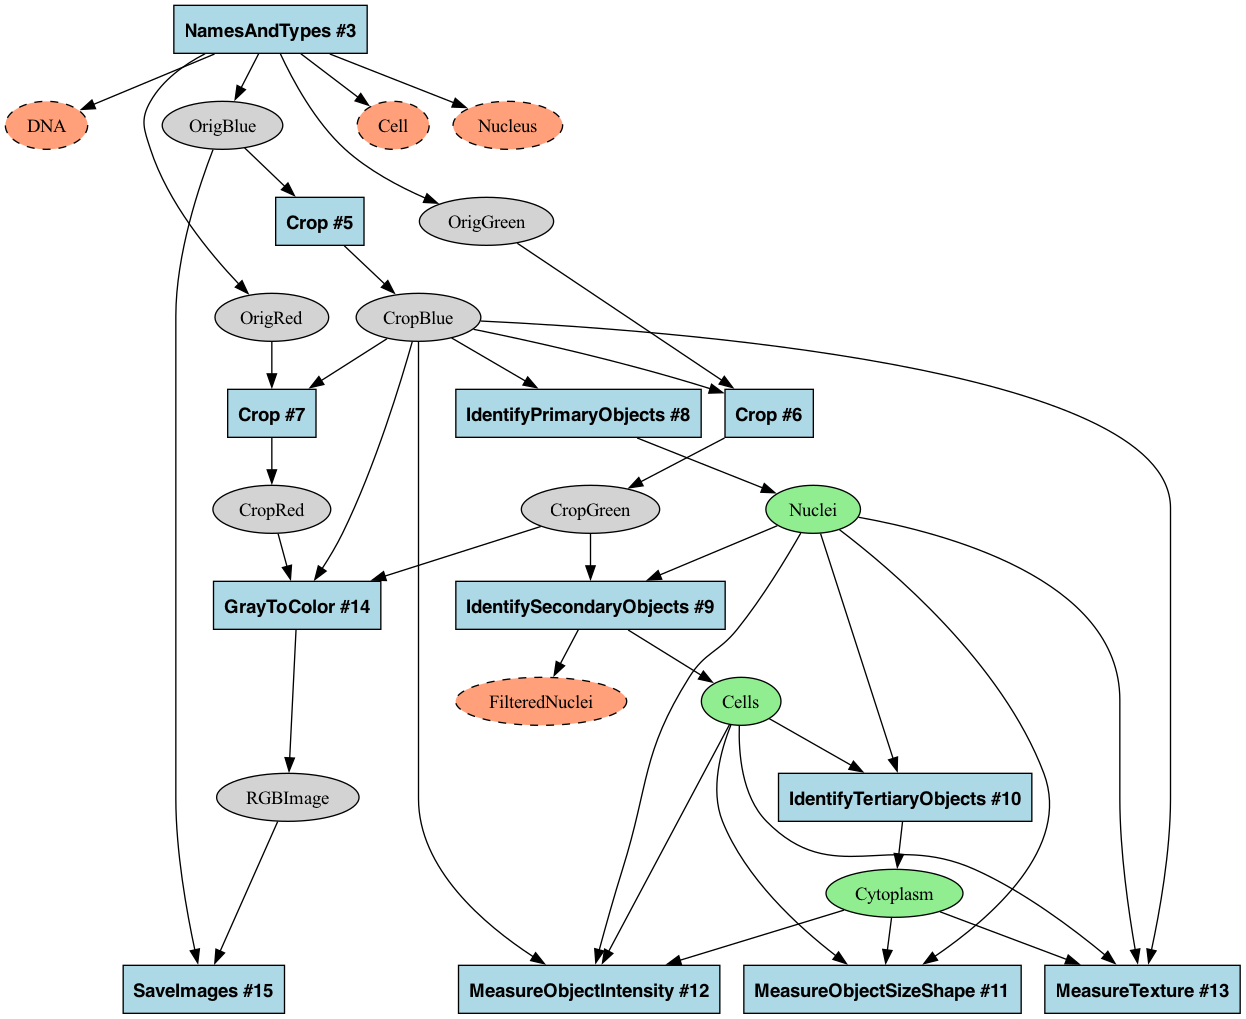
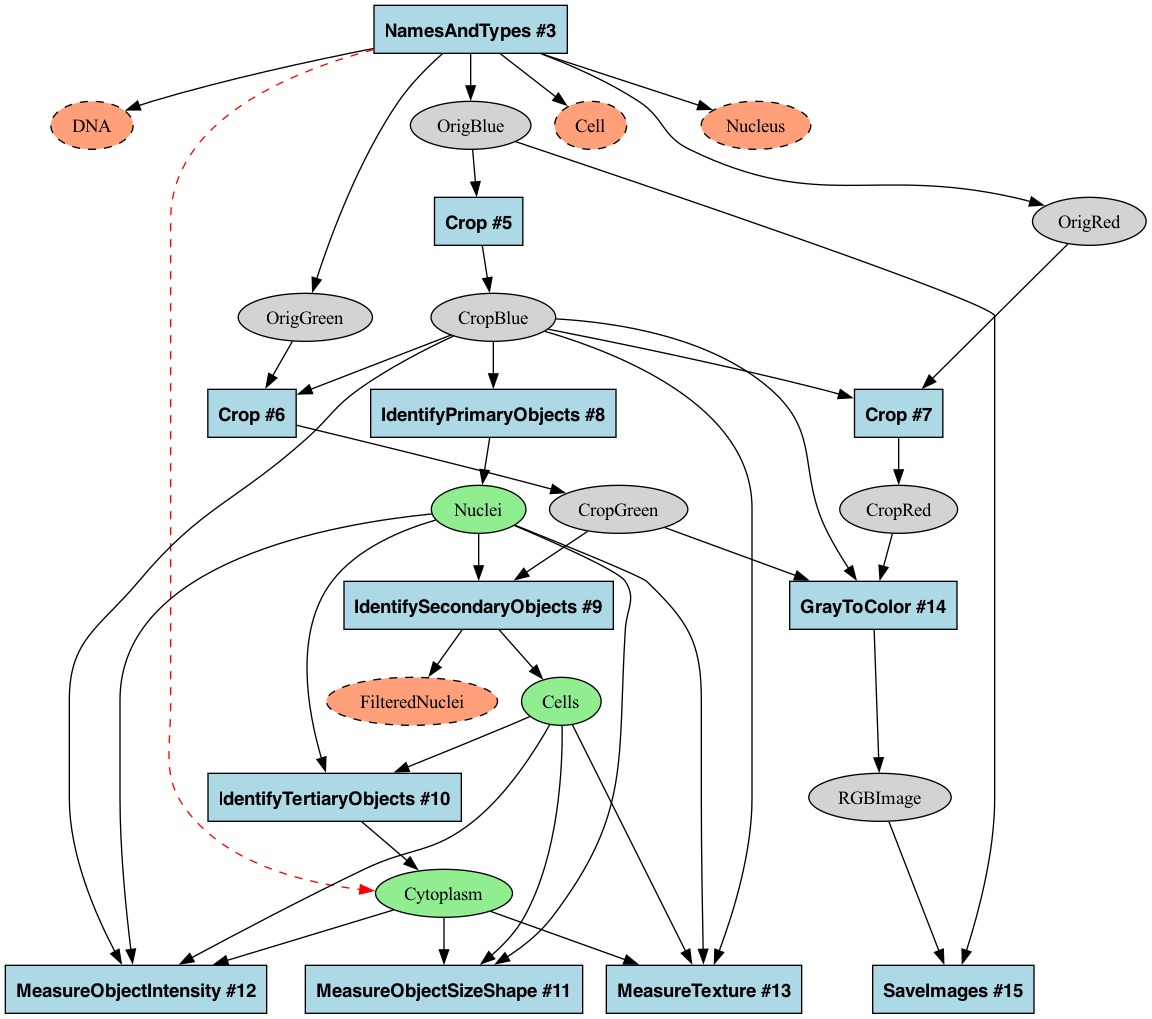
fix: improve filter_multiple_parents API consistency
- Add highlight_filtered parameter to match other filter functions
- Return tuple of (graph, edges_affected) for consistent API
- Support visual marking of filtered edges in highlight mode
- Fix typo: change 'quit' to 'quiet' in print statement
- Track and report number of duplicate parent edges affected

This brings filter_multiple_parents in line with the established
pattern used by other graph filtering functions.

🤖 Generated with [Claude Code](https://claude.ai/code)

diff --git a/cp_graph.py b/cp_graph.py
@@ -1090,13 +1090,21 @@ def filter_remove_unused_data(
 
 
 def filter_multiple_parents(
-    G: nx.DiGraph,
-) -> nx.DiGraph:
+    G: nx.DiGraph, highlight_filtered: bool = False
+) -> Tuple[nx.DiGraph, int]:
     """
     Ensure images and objects only have a single parent.
     Last module in pipeline marked as parent is kept as parent.
+
+    Args:
+        G: The original NetworkX graph
+        highlight_filtered: If True, mark edges as filtered instead of removing them
+
+    Returns:
+        A tuple of (filtered graph, number of edges affected)
     """
     filtered_graph = G.copy()
+    edges_affected = 0
 
     data_nodes = [
         node
@@ -1121,13 +1129,21 @@ def filter_multiple_parents(
         # only the last module in the pipeline should be the "true" parent
         keep_parent = max(module_parents, key=lambda p: G.nodes[p].get("module_num", 0))
 
-        # remove edges from other parents so the graph is clean
+        # remove or mark edges from other parents
         for parent in parents:
             if parent != keep_parent:
                 if filtered_graph.has_edge(parent, node):
-                    filtered_graph.remove_edge(parent, node)
+                    if highlight_filtered:
+                        # Mark the edge as filtered with a visual style
+                        filtered_graph.edges[parent, node]["filtered"] = True
+                        filtered_graph.edges[parent, node]["style"] = "dashed"
+                        filtered_graph.edges[parent, node]["color"] = "red"
+                    else:
+                        # Remove the edge
+                        filtered_graph.remove_edge(parent, node)
+                    edges_affected += 1
 
-    return filtered_graph
+    return filtered_graph, edges_affected
 
 
 def apply_graph_filters(
@@ -1217,9 +1233,18 @@ def apply_graph_filters(
     # Ensure images and objects only have a single parent
     # Last module in pipeline marked as parent is kept as parent
     if not no_single_parent:
-        if not quit:
-            print("Trimming multiple parents")
-        filtered_graph = filter_multiple_parents(filtered_graph)
+        action_verb = "Highlighting" if highlight_filtered else "Removing"
+        if not quiet:
+            print(f"{action_verb} edges from multiple parents")
+        filtered_graph, edges_affected = filter_multiple_parents(
+            filtered_graph, highlight_filtered
+        )
+        total_affected += edges_affected
+        if not quiet and edges_affected > 0:
+            if highlight_filtered:
+                print(f"  Highlighted {edges_affected} edges from duplicate parents")
+            else:
+                print(f"  Removed {edges_affected} edges from duplicate parents")
 
     # Report total filtering results
     if not quiet and total_affected > 0:
